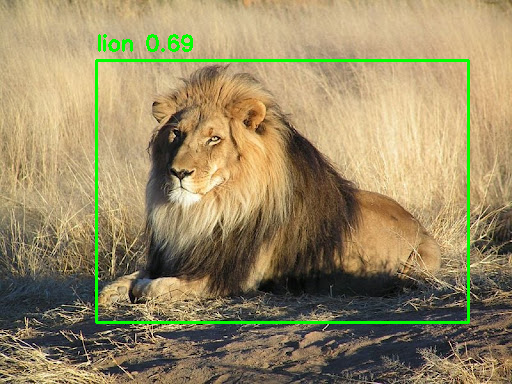
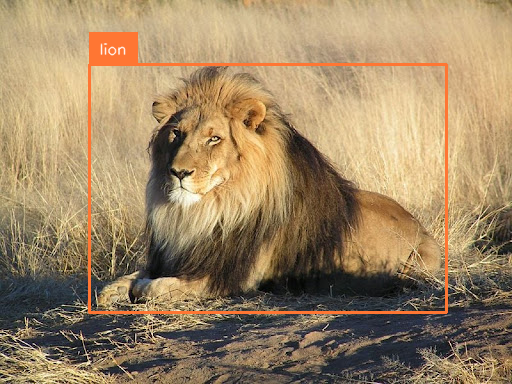
description display for yolov8

Changed region(s): [[0.1562, 0.0625, 0.9375, 0.8438]]

diff --git a/templates/index.html b/templates/index.html
@@ -32,6 +32,12 @@
                 <label for="threshold" class="form-label">Detection Threshold (0-1):</label>
                 <input type="number" step="0.01" min="0" max="1" class="form-control" name="threshold" id="threshold" value="0.5" required>
             </div>
+            <div class="form-check mb-3">
+                <input class="form-check-input" type="checkbox" name="show_descriptions" id="show_descriptions" checked>
+                <label class="form-check-label" for="show_descriptions">
+                    Show class descriptions
+                </label>
+            </div>
             <button type="submit" class="btn btn-primary w-100">Upload and Detect</button>
         </form>
 
@@ -48,6 +54,19 @@
                         <li class="list-group-item d-flex justify-content-between align-items-center">
                             <span><strong>{{ key }}</strong></span>
                             <span>{{ value }}</span>
+                        </li>
+                    {% endfor %}
+                </ul>
+            </div>
+        {% endif %}
+
+        {% if descriptions %}
+            <div class="mt-4">
+                <h3>Class Descriptions</h3>
+                <ul class="list-group">
+                    {% for cls, desc in descriptions.items() %}
+                        <li class="list-group-item">
+                            <strong>{{ cls }}:</strong> {{ desc }}
                         </li>
                     {% endfor %}
                 </ul>

diff --git a/app.py b/app.py
@@ -1,3 +1,26 @@
+CLASS_DESCRIPTIONS = {
+    "elephant": (
+        "Throughout history, elephants have been revered in many cultures for their size, strength, and intelligence. "
+        "They played important roles in ancient warfare, royal processions, and religious symbolism, especially in Asia and Africa. "
+        "Today, elephants are recognized for their complex social structures and remarkable memory."
+    ),
+    "lion": (
+        "Lions have symbolized courage and royalty since ancient times, appearing in the art and mythology of civilizations such as Egypt, Greece, and Persia. "
+        "Known as the 'king of the jungle,' lions live in social groups called prides and have been subjects of fascination and reverence for millennia."
+    ),
+    "pig": (
+        "Domesticated over 9,000 years ago, pigs have been a vital source of food and cultural significance in societies worldwide. "
+        "They are featured in ancient Chinese zodiac, European folklore, and are known for their intelligence and adaptability."
+    ),
+    "tiger": (
+        "Tigers have been admired and feared throughout history, often representing power and majesty in Asian cultures. "
+        "They are the largest wild cats and have inspired countless legends, artworks, and conservation efforts due to their beauty and strength."
+    ),
+    "wolf": (
+        "Wolves have played a central role in human folklore, mythology, and history, symbolizing both danger and loyalty. "
+        "From the founding myth of Rome to Native American legends, wolves are known for their pack behavior, intelligence, and adaptability."
+    )
+}
 from flask import Flask, render_template, request, redirect, url_for, send_file
 import os
 from dotenv import load_dotenv
@@ -42,52 +65,56 @@ def upload():
     # Get model selection from form
     model_choice = request.form.get('model', 'roboflow')
 
+    show_descriptions = request.form.get('show_descriptions') == 'on'
+    detected_classes = set()
+
     if model_choice == 'roboflow':
-        # --- Roboflow Inference ---
         from inference import get_model
         import supervision as sv
         model = get_model(model_id="animal-detection-ioduj/2")
         image = Image.open(filepath).convert("RGB")
         results = model.infer(image)[0]
         detections = sv.Detections.from_inference(results)
-        # Filter detections by threshold
         mask = detections.confidence >= threshold
         detections = detections[mask]
         box_annotator = sv.BoxAnnotator()
         label_annotator = sv.LabelAnnotator()
         annotated_image = box_annotator.annotate(scene=image, detections=detections)
         annotated_image = label_annotator.annotate(scene=annotated_image, detections=detections)
-        # Save annotated image
         annotated_path = os.path.join(app.config['UPLOAD_FOLDER'], f"annotated_{filename}.png")
         annotated_image.save(annotated_path)
-        # Basic evaluation metrics
         num_detections = len(detections)
         avg_confidence = float(detections.confidence.mean()) if num_detections > 0 else 0.0
         metrics = {
             'Number of Detections': num_detections,
             'Average Confidence': f"{avg_confidence:.2f}"
         }
+        # Collect detected class names (normalize for description lookup)
+        if num_detections > 0:
+            for label in detections.class_id:
+                class_name = model.classes[label] if hasattr(model, 'classes') else str(label)
+                class_name_norm = class_name.strip().lower()
+                detected_classes.add(class_name_norm)
     else:
-        # --- YOLOv8 Inference ---
         from ultralytics import YOLO
         import numpy as np
         image = Image.open(filepath).convert("RGB")
         model_path = os.path.join('output_yolo_labeled', 'yolov8_exp', 'weights', 'best.pt')
         model = YOLO(model_path)
         results = model.predict(image, conf=threshold, save=False, verbose=False)[0]
-        # Draw boxes and labels
         annotated_image = np.array(image).copy()
         for box, score, cls in zip(results.boxes.xyxy.cpu().numpy(), results.boxes.conf.cpu().numpy(), results.boxes.cls.cpu().numpy()):
             if score >= threshold:
                 x1, y1, x2, y2 = map(int, box)
                 label = model.names[int(cls)]
+                label_norm = label.strip().lower()
+                detected_classes.add(label_norm)
                 import cv2
                 cv2.rectangle(annotated_image, (x1, y1), (x2, y2), (0,255,0), 2)
                 cv2.putText(annotated_image, f'{label} {score:.2f}', (x1, y1-10), cv2.FONT_HERSHEY_SIMPLEX, 0.7, (0,255,0), 2)
         annotated_image = Image.fromarray(annotated_image)
         annotated_path = os.path.join(app.config['UPLOAD_FOLDER'], f"annotated_{filename}.png")
         annotated_image.save(annotated_path)
-        # Metrics
         num_detections = len(results.boxes)
         avg_confidence = float(np.mean(results.boxes.conf.cpu().numpy())) if num_detections > 0 else 0.0
         metrics = {
@@ -95,7 +122,16 @@ def upload():
             'Average Confidence': f"{avg_confidence:.2f}"
         }
 
-    return render_template('index.html', result_url=url_for('uploaded_file', filename=os.path.basename(annotated_path)), metrics=metrics)
+    descriptions = None
+    if show_descriptions and detected_classes:
+        descriptions = {cls.capitalize(): CLASS_DESCRIPTIONS.get(cls, "No description available.") for cls in detected_classes}
+
+    return render_template(
+        'index.html',
+        result_url=url_for('uploaded_file', filename=os.path.basename(annotated_path)),
+        metrics=metrics,
+        descriptions=descriptions
+    )
 
 
 # Serve uploaded/annotated files
